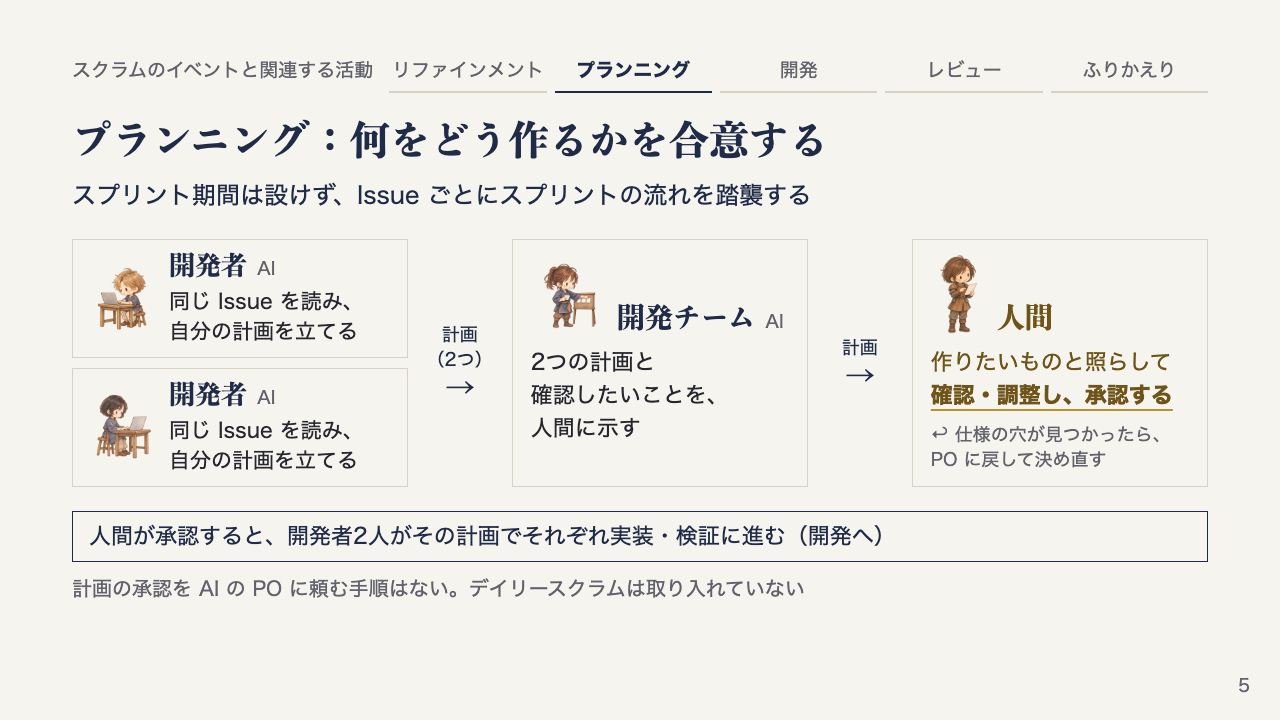
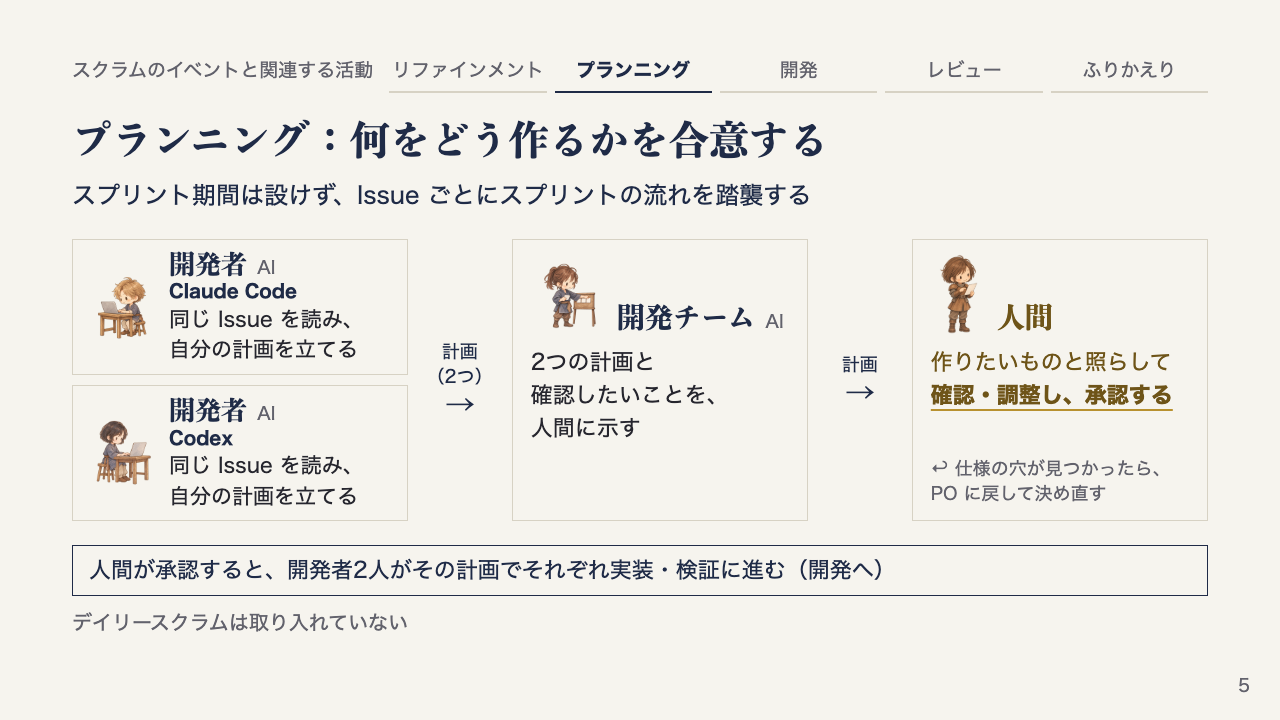
2回目の実機確認を受けて5〜7枚目を直す：開発者を Claude Code／Codex で示し、重複する補足を削る（#30）

diff --git a/themes/paper.css b/themes/paper.css
@@ -338,6 +338,11 @@ table.events .judge { color: var(--gold-text); font-weight: 700; }
 .act-who img + img { margin-left: -16px; }
 .act-who h3 { margin: 0; font-size: 28px; line-height: 1.3; }
 .act-box p { font-size: 22px; line-height: 1.5; }
+/* 開発者の枠で、2人のどちらかを示す名前（5・6枚目。Claude Code／Codex） */
+.act-box p.act-dev { margin: 0 0 4px; font-size: 18px; line-height: 1.3; font-weight: 700; color: var(--indigo); }
+.act-who .act-dev { margin: 2px 0 0; }
+.act-box.solo h3:has(+ .act-dev) { margin-bottom: 0; }
+.act-box.solo p.act-dev { margin: 0 0 2px; line-height: 1.2; }
 /* 差し戻し・条件の見直しなど、通常の流れから戻るときの補足 */
 .act-box .act-alt { margin-top: auto; padding-top: 10px; font-size: 18px; line-height: 1.4; color: var(--muted); }
 .act-box p + .act-alt { margin-top: auto; }
